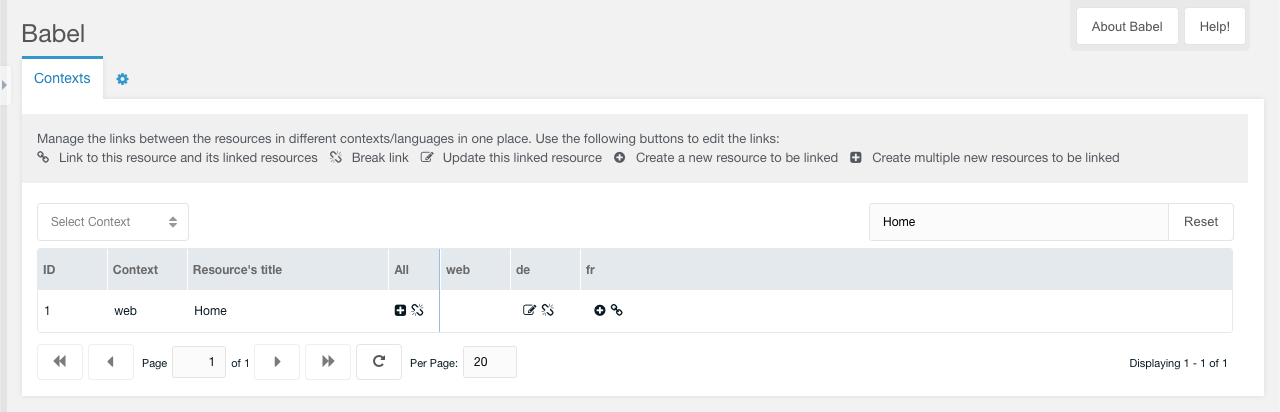
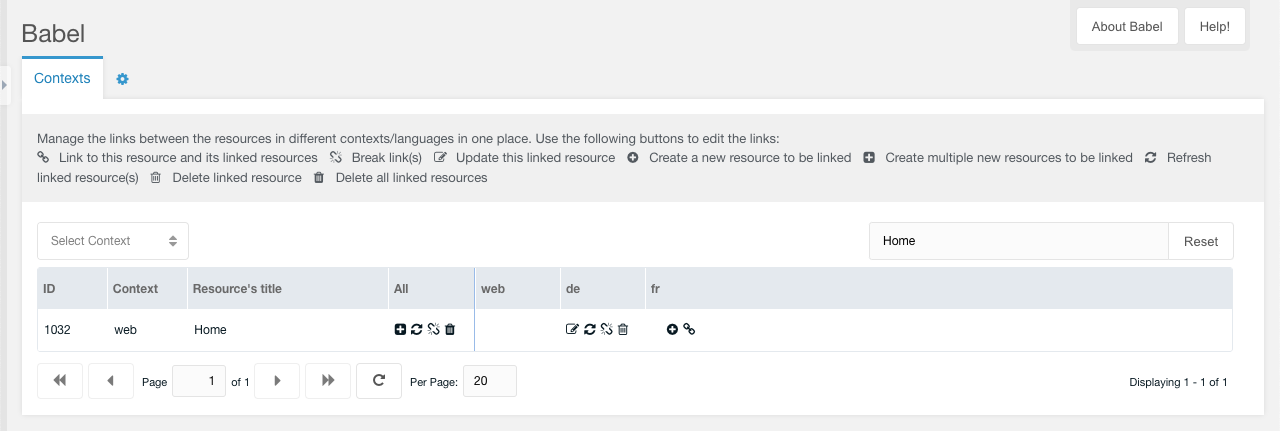
Deployed 280baee with MkDocs version: 1.5.3

diff --git a/usage/index.html b/usage/index.html
@@ -602,12 +602,13 @@
 
 <p>Babel contains a Babel Button, a custom manager page and two snippets.</p>
 <h2 id="babel-button">Babel Button</h2>
-<p>The Babel Button is located on the top of a resource form. With this button
-you can create, link and update translated versions of the current resource in
-different contexts.</p>
-<p>Hover the button and create, link, update and unlink the translated versions of
-the current resource. You can also unlink all translations from this resource
-and create multiple translations in selectable contexts with a menu entry.</p>
+<p>The Babel Button is located on the top of a resource form. With this button you
+can create, link, update and delete translated versions of the current resource
+in different contexts.</p>
+<p>Hover the button and create, link, update, unlink and delete the translated
+versions of the current resource. You can also unlink and delete all
+translations from this resource and create multiple translations in selectable
+contexts with a menu entry.</p>
 <p><a class="glightbox" href="img/babel-linked-menu.png" data-type="image" data-width="auto" data-height="auto" data-desc-position="bottom"><img alt="Linked Menu" src="img/babel-linked-menu.png" /></a></p>
 <p><a class="glightbox" href="img/babel-unlinked-menu.png" data-type="image" data-width="auto" data-height="auto" data-desc-position="bottom"><img alt="Unlinked Menu" src="img/babel-unlinked-menu.png" /></a></p>
 <p>If you create a link to an existing resource, the following window is displayed.
@@ -616,7 +617,10 @@ for the page title or by entering the target ID directly.</p>
 <p>If you enable 'Copy synchronized TVs to target', the synced template variables
 (TVs) referenced in the system setting <code>babel.syncTvs</code> and the synced resource
 fields referenced in the system setting <code>babel.syncFields</code> of all linked
-resources are filled with the TV/field values of the current resource.</p>
+resources are filled with the TV/field values of the current resource. The
+system settings <code>babel.syncTvs</code> and <code>babel.syncFields</code> can be optionally be set
+with according context settings. These context settings are synced in each
+context group.</p>
 <p>If you enable 'Synchronise all translations from the target', the language links
 of the target resource are synced between the linked resources. The current
 resource is also linked to the target resource and all linked resources.
@@ -624,20 +628,32 @@ Otherwise, only the current resource is linked to all linked resources of the
 target resource and the link to the current resource is added to the links to
 the target resource.</p>
 <p><a class="glightbox" href="img/babel-linking-window.png" data-type="image" data-width="auto" data-height="auto" data-desc-position="bottom"><img alt="Linking Window" src="img/babel-linking-window.png" /></a></p>
-<p>If you create a translations of the current resource in a selected context, the following
-window is displayed.</p>
+<p>If you create a translation of the current resource in a selected context, the
+following window is displayed.</p>
+<p>If you enable 'Copy synchronized TVs to target', the synced template variables
+(TVs) referenced in the system setting babel.syncTvs and the synced resource
+fields referenced in the system setting babel.syncFields of the created resource
+is filled with the TV/field values of the current resource.</p>
 <p>If you enable 'Synchronise all translations', the language links of the current
 resource are synced between the linked resources. The created translation is
 linked to all linked resources. Otherwise, there is just a link created between
 the current resource and the new created translation.</p>
+<p>If you enable 'Create translations of child resources', the child resources of
+the current resource are created and linked in the selected context.</p>
 <p><a class="glightbox" href="img/babel-create-single.png" data-type="image" data-width="auto" data-height="auto" data-desc-position="bottom"><img alt="Create Single Window" src="img/babel-create-single.png" /></a></p>
 <p>If you create multiple translations of the current resource, the following
 window is displayed. You must select the contexts into which the current
 resource is not translated and for which you would like to create a translation.</p>
+<p>If you enable 'Copy synchronized TVs to target', the synced template variables
+(TVs) referenced in the system setting babel.syncTvs and the synced resource
+fields referenced in the system setting babel.syncFields of all created resources
+are filled with the TV/field values of the current resource.</p>
 <p>If you enable 'Synchronise all translations', the language links of the current
 resource are synced between the linked resources. All created translations are
 linked to all linked resources. Otherwise, there is just a link created between
 the current resource and the new created translations.</p>
+<p>If you enable 'Create translations of child resources', the child resources of
+the current resource are created and linked in the selected contexts.</p>
 <p><a class="glightbox" href="img/babel-create-multiple.png" data-type="image" data-width="auto" data-height="auto" data-desc-position="bottom"><img alt="Create Multiple Window" src="img/babel-create-multiple.png" /></a></p>
 <h2 id="custom-manager-page">Custom Manager Page</h2>
 <p>The custom manager page contains two tabs.</p>
@@ -645,15 +661,23 @@ the current resource and the new created translations.</p>
 <p>In this tab you can manage the translated versions of a resource. The first
 columns contain information of the source resource (ID, context and pagetitle)
 and an <code>All</code> column to create multiple translations with a click on the
-<span class="twemoji"><svg xmlns="http://www.w3.org/2000/svg" viewBox="0 0 448 512"><!--! Font Awesome Free 6.5.1 by @fontawesome - https://fontawesome.com License - https://fontawesome.com/license/free (Icons: CC BY 4.0, Fonts: SIL OFL 1.1, Code: MIT License) Copyright 2023 Fonticons, Inc.--><path d="M64 32C28.7 32 0 60.7 0 96v320c0 35.3 28.7 64 64 64h320c35.3 0 64-28.7 64-64V96c0-35.3-28.7-64-64-64H64zm136 312v-64h-64c-13.3 0-24-10.7-24-24s10.7-24 24-24h64v-64c0-13.3 10.7-24 24-24s24 10.7 24 24v64h64c13.3 0 24 10.7 24 24s-10.7 24-24 24h-64v64c0 13.3-10.7 24-24 24s-24-10.7-24-24z"/></svg></span> icon or remove all links to the source resource
-with a click on the <span class="twemoji"><svg xmlns="http://www.w3.org/2000/svg" viewBox="0 0 640 512"><!--! Font Awesome Free 6.5.1 by @fontawesome - https://fontawesome.com License - https://fontawesome.com/license/free (Icons: CC BY 4.0, Fonts: SIL OFL 1.1, Code: MIT License) Copyright 2023 Fonticons, Inc.--><path d="M38.8 5.1C28.4-3.1 13.3-1.2 5.1 9.2s-6.3 25.5 4.1 33.7l592 464c10.4 8.2 25.5 6.3 33.7-4.1s6.3-25.5-4.1-33.7L489.3 358.2l90.5-90.5c56.5-56.5 56.5-148 0-204.5-50-50-128.8-56.5-186.3-15.4l-1.6 1.1c-14.4 10.3-17.7 30.3-7.4 44.6s30.3 17.7 44.6 7.4l1.6-1.1c32.1-22.9 76-19.3 103.8 8.6 31.5 31.5 31.5 82.5 0 114l-96 96-31.9-25c24.3-53.8 13.5-118.3-29.6-161.4-52.2-52.3-134.5-56.2-191.3-11.7L38.8 5.1zM239 162c30.1-14.9 67.7-9.9 92.8 15.3 20 20 27.5 48.3 21.7 74.5L239 162zm-122.4 25.9-56.4 56.4c-56.5 56.5-56.5 148 0 204.5 50 50 128.8 56.5 186.3 15.4l1.6-1.1c14.4-10.3 17.7-30.3 7.4-44.6s-30.3-17.7-44.6-7.4l-1.6 1.1c-32.1 22.9-76 19.3-103.8-8.6C74 372 74 321 105.5 289.5l61.8-61.8-50.6-39.9zM220.9 270c-2.1 39.8 12.2 80.1 42.2 110 38.9 38.9 94.4 51 143.6 36.3L220.9 270z"/></svg></span> icon. For each translatable
-context a grid column is available with two icons. The following icons are
-available depending on the link state:</p>
+<span class="twemoji"><svg xmlns="http://www.w3.org/2000/svg" viewBox="0 0 448 512"><!--! Font Awesome Free 6.5.1 by @fontawesome - https://fontawesome.com License - https://fontawesome.com/license/free (Icons: CC BY 4.0, Fonts: SIL OFL 1.1, Code: MIT License) Copyright 2023 Fonticons, Inc.--><path d="M64 32C28.7 32 0 60.7 0 96v320c0 35.3 28.7 64 64 64h320c35.3 0 64-28.7 64-64V96c0-35.3-28.7-64-64-64H64zm136 312v-64h-64c-13.3 0-24-10.7-24-24s10.7-24 24-24h64v-64c0-13.3 10.7-24 24-24s24 10.7 24 24v64h64c13.3 0 24 10.7 24 24s-10.7 24-24 24h-64v64c0 13.3-10.7 24-24 24s-24-10.7-24-24z"/></svg></span> icon, refresh all linked resources of the source
+resource with a click on the <span class="twemoji"><svg xmlns="http://www.w3.org/2000/svg" viewBox="0 0 512 512"><!--! Font Awesome Free 6.5.1 by @fontawesome - https://fontawesome.com License - https://fontawesome.com/license/free (Icons: CC BY 4.0, Fonts: SIL OFL 1.1, Code: MIT License) Copyright 2023 Fonticons, Inc.--><path d="M142.9 142.9c62.2-62.2 162.7-62.5 225.3-1L327 183c-6.9 6.9-8.9 17.2-5.2 26.2S334.3 224 344 224h128c13.3 0 24-10.7 24-24V72c0-9.7-5.8-18.5-14.8-22.2S461.9 48.1 455 55l-41.6 41.6c-87.6-86.5-228.7-86.2-315.8 1-24.4 24.4-42 53.1-52.8 83.8-5.9 16.7 2.9 34.9 19.5 40.8s34.9-2.9 40.8-19.5c7.7-21.8 20.2-42.3 37.8-59.8zM16 312v128c0 9.7 5.8 18.5 14.8 22.2s19.3 1.7 26.2-5.2l41.6-41.6c87.6 86.5 228.7 86.2 315.8-1 24.4-24.4 42.1-53.1 52.9-83.7 5.9-16.7-2.9-34.9-19.5-40.8s-34.9 2.9-40.8 19.5c-7.7 21.8-20.2 42.3-37.8 59.8-62.2 62.2-162.7 62.5-225.3 1L185 329c6.9-6.9 8.9-17.2 5.2-26.2S177.7 288 168 288H40c-13.3 0-24 10.7-24 24z"/></svg></span> icon, remove all links
+to the source resource with a click on the <span class="twemoji"><svg xmlns="http://www.w3.org/2000/svg" viewBox="0 0 640 512"><!--! Font Awesome Free 6.5.1 by @fontawesome - https://fontawesome.com License - https://fontawesome.com/license/free (Icons: CC BY 4.0, Fonts: SIL OFL 1.1, Code: MIT License) Copyright 2023 Fonticons, Inc.--><path d="M38.8 5.1C28.4-3.1 13.3-1.2 5.1 9.2s-6.3 25.5 4.1 33.7l592 464c10.4 8.2 25.5 6.3 33.7-4.1s6.3-25.5-4.1-33.7L489.3 358.2l90.5-90.5c56.5-56.5 56.5-148 0-204.5-50-50-128.8-56.5-186.3-15.4l-1.6 1.1c-14.4 10.3-17.7 30.3-7.4 44.6s30.3 17.7 44.6 7.4l1.6-1.1c32.1-22.9 76-19.3 103.8 8.6 31.5 31.5 31.5 82.5 0 114l-96 96-31.9-25c24.3-53.8 13.5-118.3-29.6-161.4-52.2-52.3-134.5-56.2-191.3-11.7L38.8 5.1zM239 162c30.1-14.9 67.7-9.9 92.8 15.3 20 20 27.5 48.3 21.7 74.5L239 162zm-122.4 25.9-56.4 56.4c-56.5 56.5-56.5 148 0 204.5 50 50 128.8 56.5 186.3 15.4l1.6-1.1c14.4-10.3 17.7-30.3 7.4-44.6s-30.3-17.7-44.6-7.4l-1.6 1.1c-32.1 22.9-76 19.3-103.8-8.6C74 372 74 321 105.5 289.5l61.8-61.8-50.6-39.9zM220.9 270c-2.1 39.8 12.2 80.1 42.2 110 38.9 38.9 94.4 51 143.6 36.3L220.9 270z"/></svg></span> icon
+or delete all linked resource of the source resource with a click on the
+<span class="twemoji"><svg xmlns="http://www.w3.org/2000/svg" viewBox="0 0 448 512"><!--! Font Awesome Free 6.5.1 by @fontawesome - https://fontawesome.com License - https://fontawesome.com/license/free (Icons: CC BY 4.0, Fonts: SIL OFL 1.1, Code: MIT License) Copyright 2023 Fonticons, Inc.--><path d="M135.2 17.7C140.6 6.8 151.7 0 163.8 0h120.4c12.1 0 23.2 6.8 28.6 17.7L320 32h96c17.7 0 32 14.3 32 32s-14.3 32-32 32H32C14.3 96 0 81.7 0 64s14.3-32 32-32h96l7.2-14.3zM32 128h384v320c0 35.3-28.7 64-64 64H96c-35.3 0-64-28.7-64-64V128zm96 64c-8.8 0-16 7.2-16 16v224c0 8.8 7.2 16 16 16s16-7.2 16-16V208c0-8.8-7.2-16-16-16zm96 0c-8.8 0-16 7.2-16 16v224c0 8.8 7.2 16 16 16s16-7.2 16-16V208c0-8.8-7.2-16-16-16zm96 0c-8.8 0-16 7.2-16 16v224c0 8.8 7.2 16 16 16s16-7.2 16-16V208c0-8.8-7.2-16-16-16z"/></svg></span> icon. For each translatable context a grid column
+is available with some icons. The following icons are available. </p>
+<p>For unlinked contexts:</p>
 <ul>
 <li><span class="twemoji"><svg xmlns="http://www.w3.org/2000/svg" viewBox="0 0 512 512"><!--! Font Awesome Free 6.5.1 by @fontawesome - https://fontawesome.com License - https://fontawesome.com/license/free (Icons: CC BY 4.0, Fonts: SIL OFL 1.1, Code: MIT License) Copyright 2023 Fonticons, Inc.--><path d="M256 512a256 256 0 1 0 0-512 256 256 0 1 0 0 512zm-24-168v-64h-64c-13.3 0-24-10.7-24-24s10.7-24 24-24h64v-64c0-13.3 10.7-24 24-24s24 10.7 24 24v64h64c13.3 0 24 10.7 24 24s-10.7 24-24 24h-64v64c0 13.3-10.7 24-24 24s-24-10.7-24-24z"/></svg></span> to create a new resource to be linked,</li>
 <li><span class="twemoji"><svg xmlns="http://www.w3.org/2000/svg" viewBox="0 0 640 512"><!--! Font Awesome Free 6.5.1 by @fontawesome - https://fontawesome.com License - https://fontawesome.com/license/free (Icons: CC BY 4.0, Fonts: SIL OFL 1.1, Code: MIT License) Copyright 2023 Fonticons, Inc.--><path d="M579.8 267.7c56.5-56.5 56.5-148 0-204.5-50-50-128.8-56.5-186.3-15.4l-1.6 1.1c-14.4 10.3-17.7 30.3-7.4 44.6s30.3 17.7 44.6 7.4l1.6-1.1c32.1-22.9 76-19.3 103.8 8.6 31.5 31.5 31.5 82.5 0 114L422.3 334.8c-31.5 31.5-82.5 31.5-114 0-27.9-27.9-31.5-71.8-8.6-103.8l1.1-1.6c10.3-14.4 6.9-34.4-7.4-44.6s-34.4-6.9-44.6 7.4l-1.1 1.6C206.5 251.2 213 330 263 380c56.5 56.5 148 56.5 204.5 0l112.3-112.3zM60.2 244.3c-56.5 56.5-56.5 148 0 204.5 50 50 128.8 56.5 186.3 15.4l1.6-1.1c14.4-10.3 17.7-30.3 7.4-44.6s-30.3-17.7-44.6-7.4l-1.6 1.1c-32.1 22.9-76 19.3-103.8-8.6C74 372 74 321 105.5 289.5l112.2-112.3c31.5-31.5 82.5-31.5 114 0 27.9 27.9 31.5 71.8 8.6 103.9l-1.1 1.6c-10.3 14.4-6.9 34.4 7.4 44.6s34.4 6.9 44.6-7.4l1.1-1.6C433.5 260.8 427 182 377 132c-56.5-56.5-148-56.5-204.5 0L60.2 244.3z"/></svg></span> to link to this resource and its linked resources</li>
+</ul>
+<p>For linked contexts:</p>
+<ul>
 <li><span class="twemoji"><svg xmlns="http://www.w3.org/2000/svg" viewBox="0 0 512 512"><!--! Font Awesome Free 6.5.1 by @fontawesome - https://fontawesome.com License - https://fontawesome.com/license/free (Icons: CC BY 4.0, Fonts: SIL OFL 1.1, Code: MIT License) Copyright 2023 Fonticons, Inc.--><path d="M441 58.9 453.1 71c9.4 9.4 9.4 24.6 0 33.9L424 134.1 377.9 88 407 58.9c9.4-9.4 24.6-9.4 33.9 0zM209.8 256.2 344 121.9l46.1 46.1-134.3 134.2c-2.9 2.9-6.5 5-10.4 6.1L186.9 325l16.7-58.5c1.1-3.9 3.2-7.5 6.1-10.4zM373.1 25 175.8 222.2c-8.7 8.7-15 19.4-18.3 31.1l-28.6 100c-2.4 8.4-.1 17.4 6.1 23.6s15.2 8.5 23.6 6.1l100-28.6c11.8-3.4 22.5-9.7 31.1-18.3L487 138.9c28.1-28.1 28.1-73.7 0-101.8L474.9 25c-28.1-28.1-73.7-28.1-101.8 0zM88 64c-48.6 0-88 39.4-88 88v272c0 48.6 39.4 88 88 88h272c48.6 0 88-39.4 88-88V312c0-13.3-10.7-24-24-24s-24 10.7-24 24v112c0 22.1-17.9 40-40 40H88c-22.1 0-40-17.9-40-40V152c0-22.1 17.9-40 40-40h112c13.3 0 24-10.7 24-24s-10.7-24-24-24H88z"/></svg></span> to update the linked resource</li>
+<li><span class="twemoji"><svg xmlns="http://www.w3.org/2000/svg" viewBox="0 0 512 512"><!--! Font Awesome Free 6.5.1 by @fontawesome - https://fontawesome.com License - https://fontawesome.com/license/free (Icons: CC BY 4.0, Fonts: SIL OFL 1.1, Code: MIT License) Copyright 2023 Fonticons, Inc.--><path d="M142.9 142.9c62.2-62.2 162.7-62.5 225.3-1L327 183c-6.9 6.9-8.9 17.2-5.2 26.2S334.3 224 344 224h128c13.3 0 24-10.7 24-24V72c0-9.7-5.8-18.5-14.8-22.2S461.9 48.1 455 55l-41.6 41.6c-87.6-86.5-228.7-86.2-315.8 1-24.4 24.4-42 53.1-52.8 83.8-5.9 16.7 2.9 34.9 19.5 40.8s34.9-2.9 40.8-19.5c7.7-21.8 20.2-42.3 37.8-59.8zM16 312v128c0 9.7 5.8 18.5 14.8 22.2s19.3 1.7 26.2-5.2l41.6-41.6c87.6 86.5 228.7 86.2 315.8-1 24.4-24.4 42.1-53.1 52.9-83.7 5.9-16.7-2.9-34.9-19.5-40.8s-34.9 2.9-40.8 19.5c-7.7 21.8-20.2 42.3-37.8 59.8-62.2 62.2-162.7 62.5-225.3 1L185 329c6.9-6.9 8.9-17.2 5.2-26.2S177.7 288 168 288H40c-13.3 0-24 10.7-24 24z"/></svg></span> to refresh the linked resource</li>
 <li><span class="twemoji"><svg xmlns="http://www.w3.org/2000/svg" viewBox="0 0 640 512"><!--! Font Awesome Free 6.5.1 by @fontawesome - https://fontawesome.com License - https://fontawesome.com/license/free (Icons: CC BY 4.0, Fonts: SIL OFL 1.1, Code: MIT License) Copyright 2023 Fonticons, Inc.--><path d="M38.8 5.1C28.4-3.1 13.3-1.2 5.1 9.2s-6.3 25.5 4.1 33.7l592 464c10.4 8.2 25.5 6.3 33.7-4.1s6.3-25.5-4.1-33.7L489.3 358.2l90.5-90.5c56.5-56.5 56.5-148 0-204.5-50-50-128.8-56.5-186.3-15.4l-1.6 1.1c-14.4 10.3-17.7 30.3-7.4 44.6s30.3 17.7 44.6 7.4l1.6-1.1c32.1-22.9 76-19.3 103.8 8.6 31.5 31.5 31.5 82.5 0 114l-96 96-31.9-25c24.3-53.8 13.5-118.3-29.6-161.4-52.2-52.3-134.5-56.2-191.3-11.7L38.8 5.1zM239 162c30.1-14.9 67.7-9.9 92.8 15.3 20 20 27.5 48.3 21.7 74.5L239 162zm-122.4 25.9-56.4 56.4c-56.5 56.5-56.5 148 0 204.5 50 50 128.8 56.5 186.3 15.4l1.6-1.1c14.4-10.3 17.7-30.3 7.4-44.6s-30.3-17.7-44.6-7.4l-1.6 1.1c-32.1 22.9-76 19.3-103.8-8.6C74 372 74 321 105.5 289.5l61.8-61.8-50.6-39.9zM220.9 270c-2.1 39.8 12.2 80.1 42.2 110 38.9 38.9 94.4 51 143.6 36.3L220.9 270z"/></svg></span> to break the link</li>
+<li><span class="twemoji"><svg xmlns="http://www.w3.org/2000/svg" viewBox="0 0 448 512"><!--! Font Awesome Free 6.5.1 by @fontawesome - https://fontawesome.com License - https://fontawesome.com/license/free (Icons: CC BY 4.0, Fonts: SIL OFL 1.1, Code: MIT License) Copyright 2023 Fonticons, Inc.--><path d="m170.5 51.6-19 28.4h145l-19-28.4c-1.5-2.2-4-3.6-6.7-3.6h-93.7c-2.7 0-5.2 1.3-6.7 3.6zm147-26.6 36.7 55H424c13.3 0 24 10.7 24 24s-10.7 24-24 24h-8v304c0 44.2-35.8 80-80 80H112c-44.2 0-80-35.8-80-80V128h-8c-13.3 0-24-10.7-24-24s10.7-24 24-24h69.8l36.7-55.1C140.9 9.4 158.4 0 177.1 0h93.7c18.7 0 36.2 9.4 46.6 24.9zM80 128v304c0 17.7 14.3 32 32 32h224c17.7 0 32-14.3 32-32V128H80zm80 64v208c0 8.8-7.2 16-16 16s-16-7.2-16-16V192c0-8.8 7.2-16 16-16s16 7.2 16 16zm80 0v208c0 8.8-7.2 16-16 16s-16-7.2-16-16V192c0-8.8 7.2-16 16-16s16 7.2 16 16zm80 0v208c0 8.8-7.2 16-16 16s-16-7.2-16-16V192c0-8.8 7.2-16 16-16s16 7.2 16 16z"/></svg></span> to delete the linked resource</li>
 </ul>
 <p><a class="glightbox" href="img/babel-cmp-contexts.png" data-type="image" data-width="auto" data-height="auto" data-desc-position="bottom"><img alt="Contexts Tab" src="img/babel-cmp-contexts.png" /></a></p>
 <h3 id="settings">Settings</h3>
@@ -1076,7 +1100,7 @@ parameters:</p>
       <div class="md-copyright">
   
     <div class="md-copyright__highlight">
-      &copy; 2010-2024 <a href="https://github.com/mikrobi">Jakob Class</a>
+      &copy; 2010-2025 <a href="https://github.com/mikrobi">Jakob Class</a>
     </div>
   
   

diff --git a/index.html b/index.html
@@ -616,7 +616,7 @@ of translated resources which should be the same in every context (language).</p
       <div class="md-copyright">
   
     <div class="md-copyright__highlight">
-      &copy; 2010-2024 <a href="https://github.com/mikrobi">Jakob Class</a>
+      &copy; 2010-2025 <a href="https://github.com/mikrobi">Jakob Class</a>
     </div>
   
   

diff --git a/installation/index.html b/installation/index.html
@@ -587,7 +587,7 @@ Babel and/or contribute bugfixes and enhancements.</p>
       <div class="md-copyright">
   
     <div class="md-copyright__highlight">
-      &copy; 2010-2024 <a href="https://github.com/mikrobi">Jakob Class</a>
+      &copy; 2010-2025 <a href="https://github.com/mikrobi">Jakob Class</a>
     </div>
   
   

diff --git a/usage/tutorial/index.html b/usage/tutorial/index.html
@@ -705,7 +705,7 @@ incorporate your feedback to improve Babel.</p>
       <div class="md-copyright">
   
     <div class="md-copyright__highlight">
-      &copy; 2010-2024 <a href="https://github.com/mikrobi">Jakob Class</a>
+      &copy; 2010-2025 <a href="https://github.com/mikrobi">Jakob Class</a>
     </div>
   
   

diff --git a/usage/tutorial-seo/index.html b/usage/tutorial-seo/index.html
@@ -914,7 +914,7 @@ should be compatible with older ones.</p>
       <div class="md-copyright">
   
     <div class="md-copyright__highlight">
-      &copy; 2010-2024 <a href="https://github.com/mikrobi">Jakob Class</a>
+      &copy; 2010-2025 <a href="https://github.com/mikrobi">Jakob Class</a>
     </div>
   
   

diff --git a/contributors/index.html b/contributors/index.html
@@ -478,7 +478,7 @@ submitting bug reports, or donating.</p>
       <div class="md-copyright">
   
     <div class="md-copyright__highlight">
-      &copy; 2010-2024 <a href="https://github.com/mikrobi">Jakob Class</a>
+      &copy; 2010-2025 <a href="https://github.com/mikrobi">Jakob Class</a>
     </div>
   
   

diff --git a/404.html b/404.html
@@ -429,7 +429,7 @@
       <div class="md-copyright">
   
     <div class="md-copyright__highlight">
-      &copy; 2010-2024 <a href="https://github.com/mikrobi">Jakob Class</a>
+      &copy; 2010-2025 <a href="https://github.com/mikrobi">Jakob Class</a>
     </div>
   
   
